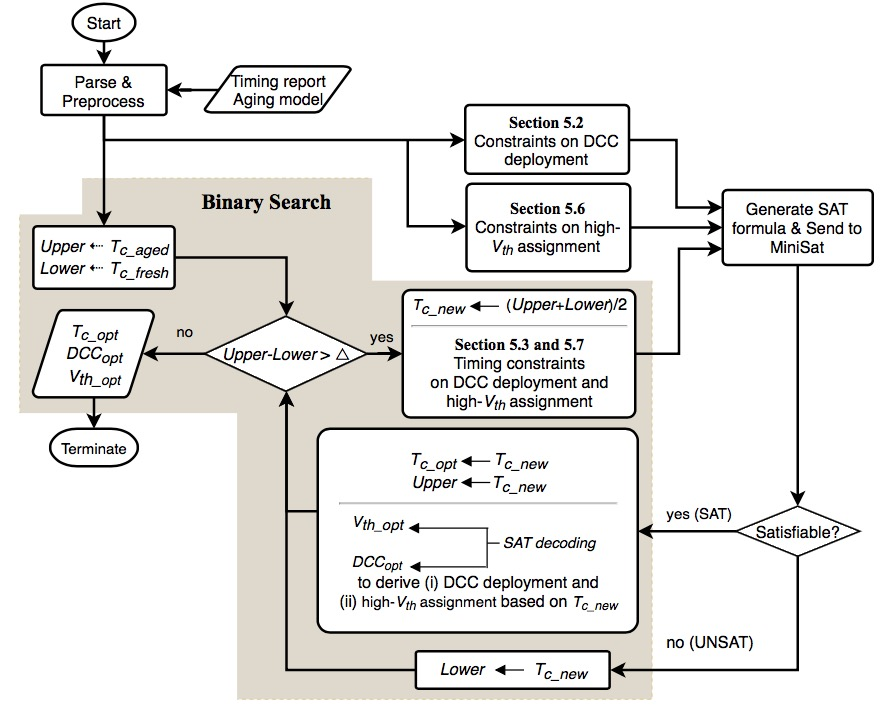
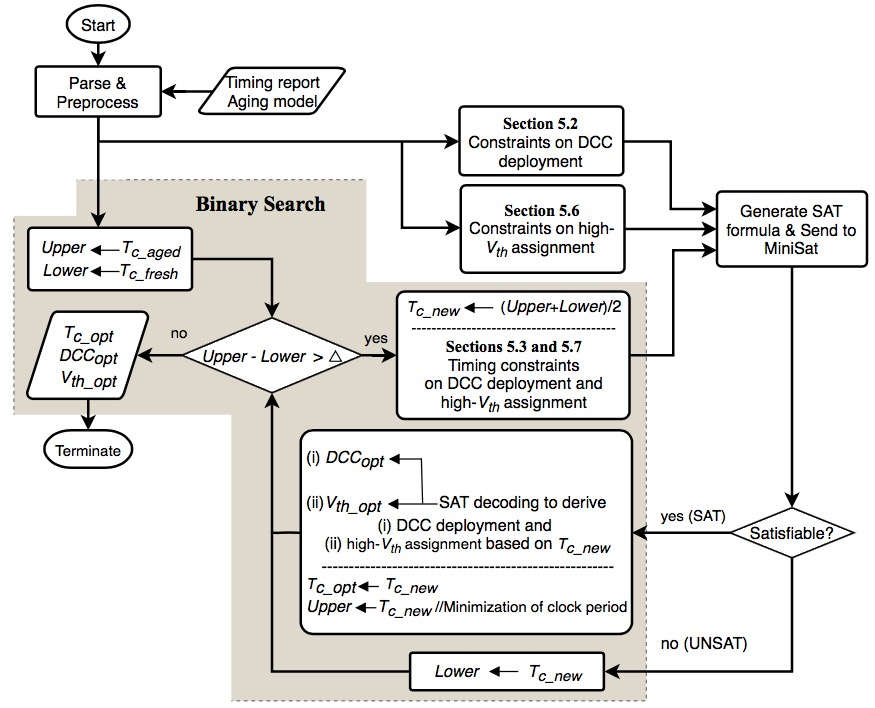
18/9/26 Update flowchart and Sec 5.7

Changed region(s): [[0.0, 0.0, 1.0, 0.9958], [0.2469, 0.5912, 0.2777, 0.9958]]

diff --git a/TODAES/paper/framework.tex b/TODAES/paper/framework.tex
@@ -67,7 +67,7 @@ Any pair of buffers along a single clock path should be constrained in this way.
 With DCC constraints and corresponding clauses, we can drastically reduce the possibilities of DCC insertions to be formulated. In the above example where the 48 clauses associated with DCC constraints are generated, the possibility count of DCC insertions drops from 16,384 to 103. In the next subsection, we describe what the 103 possibilities are and how they are translated into the final CNF representation.
 
 %(3) C
-\subsection{Timing Constraints}
+\subsection{Timing Constraints and Corresponding Clauses}
 \label{subsec:tccc}
 Given a pair of flip-flops, if there exists one logic path between them, the timing (i.e. setup-time and hold-time) constraints must be met based on the inequalities~(\ref{eq:tsu}) and~(\ref{eq:th}). Different types of DCCs reveal different influence on clock latency. Consider the lifespan specification of 10 years in Figure~\ref{fig:sub:dcci2}: the delay of each clock buffer is changed after 10 years. The clock latency of \ce{FF_i} (i.e., $C_i$) is the sum of clock buffer delays from clock source to \ce{FF_i}: 
 \begin{gather*}
@@ -151,16 +151,18 @@ Considering all of the above cases, a maximum number of 1 + 3 + 18 + 81 = 103 cl
 
 \subsection{Additive Improvement in Aging Tolerance: High-$V_{th}$ Assignment for Clock Buffers}
 \label{sec:VTA}
-In this subsection, the approach of high-$V_{th}$ assignment for clock buffers is incorporated in the proposed framework to further improve the aging tolerability of designs. Because the fragmentary high-$V_{th}$ assignment for clock buffers may decrease the feasibility/manufacturability of the proposed framework, we make a rule/definition:
+Aging tolerance is achieved by exploring/recycling useful aging-induced skews, based on the concept of timing borrowing. So far, the useful skews are progressively formed by inserting 20\%, 40\% and 80\% DCCs in the existing synthesized clock network (i.e., manipulate the aging rates of downstream clock branches of insertion points). In order to enhance the benefit of useful aging-induced skews, the approach of high-$V_{th}$ assignment for clock buffers, an additive methodology for aging tolerance, is incorporated in our framework. In this way, the manipulation dimension\footnote[8]{Because 3 types of DCCs (20\%, 40\% and 80\%) are employed in our framework, the manipulation dimension of clock skew is 3. When the approach of high-$V_{th}$ assignment for clock buffers is employed on top of the framework, the dimension becomes 4.} of clock skews can be increased, such that more useful skews can be recycled/explored, enhancing our idea of making aging useful. In the following subsections, the approach of high-$V_{th}$ assignment for clock buffers is incorporated in our framework, i.e., the approaches of DCC deployment and high-$V_{th}$ assignment for clock buffers are jointly integrated.
+
+Because the fragmentary high-$V_{th}$ assignment for clock buffers may decrease the feasibility/manufacturability of the proposed framework, we make a rule/definition:
 
 \noindent \textbf{\uline{Definition 1} (\textit{High-$V_{th}$ buffer leader}):} Once a clock buffer is selected as the \textit{high-$V_{th}$ buffer leader}, the $V_{th}$ of the selected buffer and its downstream buffers will be assigned to high $V_{th}$.
 
 In this way, we avoid the cases that the $V_{th}$ of serial buffers along a clock path interlace between high and nominal $V_{th}$. Such a rule can suppress the occurrence of fragmentary high-$V_{th}$ assignments for clock buffers and thus can increase the feasibility of the proposed framework.
 
-Conceptually, there exists one difference between DCCs and high-$V_{th}$ buffer leaders. DCCs are physical gates inserted at the inputs of clock buffers to manipulate the aging behaviors of downstream buffers. However, high-$V_{th}$ buffer leaders, selected from the existing clock buffers, indicate where we begin assigning high $V_{th}$ to the buffers toward flip-flops (exlusive).
+Conceptually, there exists one difference between DCCs and high-$V_{th}$ buffer leaders. DCCs are physical gates inserted at the inputs of clock buffers to manipulate the aging behaviors of downstream buffers. However, high-$V_{th}$ buffer leaders, selected from the existing clock buffers, indicate where we begin assigning high $V_{th}$ to the buffers toward flip-flops (exclusive).
 
 \subsection{Boolean Encoding for high-$V_{th}$ Buffer Leaders and DCCs}
-The problem of selecting high-$V_{th}$ buffer leaders is also formulated as a SAT-based problem, solved by existing SAT solver, as we do for DCC deployment. The end result of the formulation involves the selected clock buffers and locations of DCCs. Assume that there are three types of DCCs (20\%, 40\%, and 80\%) and one type of high-$V_{th}$ buffer leader. Therefore, three Boolean variables are used for encoding eight possibilities of DCC insertions and leader selections at any buffer\footnote{Any clock buffer can be inserted DCC at its input and can be selected as a high-$V_{th}$ buffer leader.}. Consider the clock buffer $p$, the eight possibilities can be encoded as follows:
+The problem of selecting high-$V_{th}$ buffer leaders is also formulated as a SAT-based problem, solved by existing SAT solver, as we do for DCC deployment. The end result of the formulation involves the selected clock buffers and locations of DCCs. Assume that there are three types of DCCs (20\%, 40\%, and 80\%) and one type of high-$V_{th}$ buffer leader. Therefore, three Boolean variables are used for encoding eight possibilities of DCC insertions and leader selections at any buffer\footnote[5]{Any clock buffer can be inserted DCC at its input and can be selected as a high-$V_{th}$ buffer leader.}. Consider the clock buffer $p$, the eight possibilities can be encoded as follows:
 
 {\small
 \begin{tabular}{  c  c  c  c  }

diff --git a/TODAES/paper/exp.tex b/TODAES/paper/exp.tex
@@ -18,16 +18,15 @@ For benchmark \textit{des\_perf}, $T_{c\_fresh}$ is 773.9ps and $T_{c\_aged}$ is
 
 \subsection{Discussion: DCC Redeployment due to High-$V_{th}$ Assignment for Clock Buffers}
 As we can see, the DCC counts in Column 9 are different from those in Column 5, implying that DCCs are redeployed in the clock tree while high-$V_{th}$ assignment is incorporated in the framework. 
-To be specific, before high-$V_{th}$ assignment is incorporated, certain DCC deployment is not allowed because of the violation of timing constraints based on inequality Equation~(\ref{eq:tsu}) and (\ref{eq:th}). Then, after high-$V_{th}$ assignment is considered, some clock buffers become candidate buffers to be inserted DCCs at their inputs, because timing constraints are met. 
+To be specific, certain DCC deployment is not allowed because of the violation of timing constraints based on inequality Equation~(\ref{eq:tsu}) and (\ref{eq:th}). Then, after high-$V_{th}$ assignment is employed, some clock buffers become candidate buffers to be inserted DCCs at their inputs, because timing constraints become met. 
 
-For instance, given a clock path $P_{clk}$, a clock buffer $B$ existing along $P_{clk}$, and an associated critical path $P_{comb}$ of $P_{clk}$. Before high-$V_{th}$ assignment is incorporated in the framework, $B$ is not allowed to be inserted any DCC at its input, because the resulting DCC deployment will violate the timing constraints of $P_{comb}$ (i.e., Equation~(\ref{eq:tsu}) and (\ref{eq:th}) are not met). However, when one buffer along $P_{clk}$ is selected as high-$V_{th}$ buffer leader, $B$ becomes allowed to be inserted certain DCCs at its input, because timing constraints of $P_{comb}$ are met. In this way, DCCs can be redeployed to obtain lower clock periods, exploring better improvement in aging tolerance.
-
+For instance, given a clock path $P_{clk}$, a clock buffer $B$ existing along $P_{clk}$, and an associated critical path $P_{critical}$ of $P_{clk}$. Buffer $B$ is not allowed to be inserted any DCC at its input, because the resulting DCC deployment will violate the timing constraints (i.e., Equation~(\ref{eq:tsu}) and (\ref{eq:th}) are not met). However, when one buffer along $P_{clk}$ is selected as a high-$V_{th}$ buffer leader, Buffer $B$ becomes allowed to be inserted certain DCCs at its input, because timing constraints of $P_{critical}$ become met. In short, some clock buffers become allowed to be inserted at their inputs while high-$V_{th}$ assignment is employed, accounting for the phenomenon of DCC redeployment, as observed in Column 5 and Column 9 in Table~\ref{table:exp2}.
 
 \subsection{Discussion: Increase in Runtime}
 In addition, the run time of the framework, incorporating high-$V_{th}$ assignment, increases due to the possibility explosion of DCC deployment and leader selection. To be specific, given a pair of flip-flops and associated clock paths, we need to consider the various possibilities of leader selections, for each DCC deployment. Therefore, the total  count of DCC deployment and leader selection is equal to the combination of DCC deployment plus leader selection, i.e., DCC possibilities multiplied by the leader counterparts, accounting for the increase of run time. 
 
 Even though the runtime increases while high-$V_{th}$ assignment is incorporated, the resulting framework is still practical for aging tolerance because it at most takes 1370 seconds for a comparative design (e.g., \textit{netcard}).
-\subsection{Discussion: Aging Impact on DCC}
+\subsection{Discussion: Aging Impact on DCCs}
 \input{figures/plot_2080dcc_agr}
 
 Figure~\ref{fig:exp4} shows the change in the duty cycle of a 20\%/80\% DCC over 10-year aging. The y axis on the left represents the duty cycle of a 20\% DCC, and the one on the right represents the duty cycle of an 80\% DCC. As it can be seen, the growth in both cases are marginal: $20\% \to 21.07\%$ for a 20\% DCC and $80\% \to 81.35\%$ for an 80\% DCC, which in turn should not affect the benefit of our proposed framework significantly.
